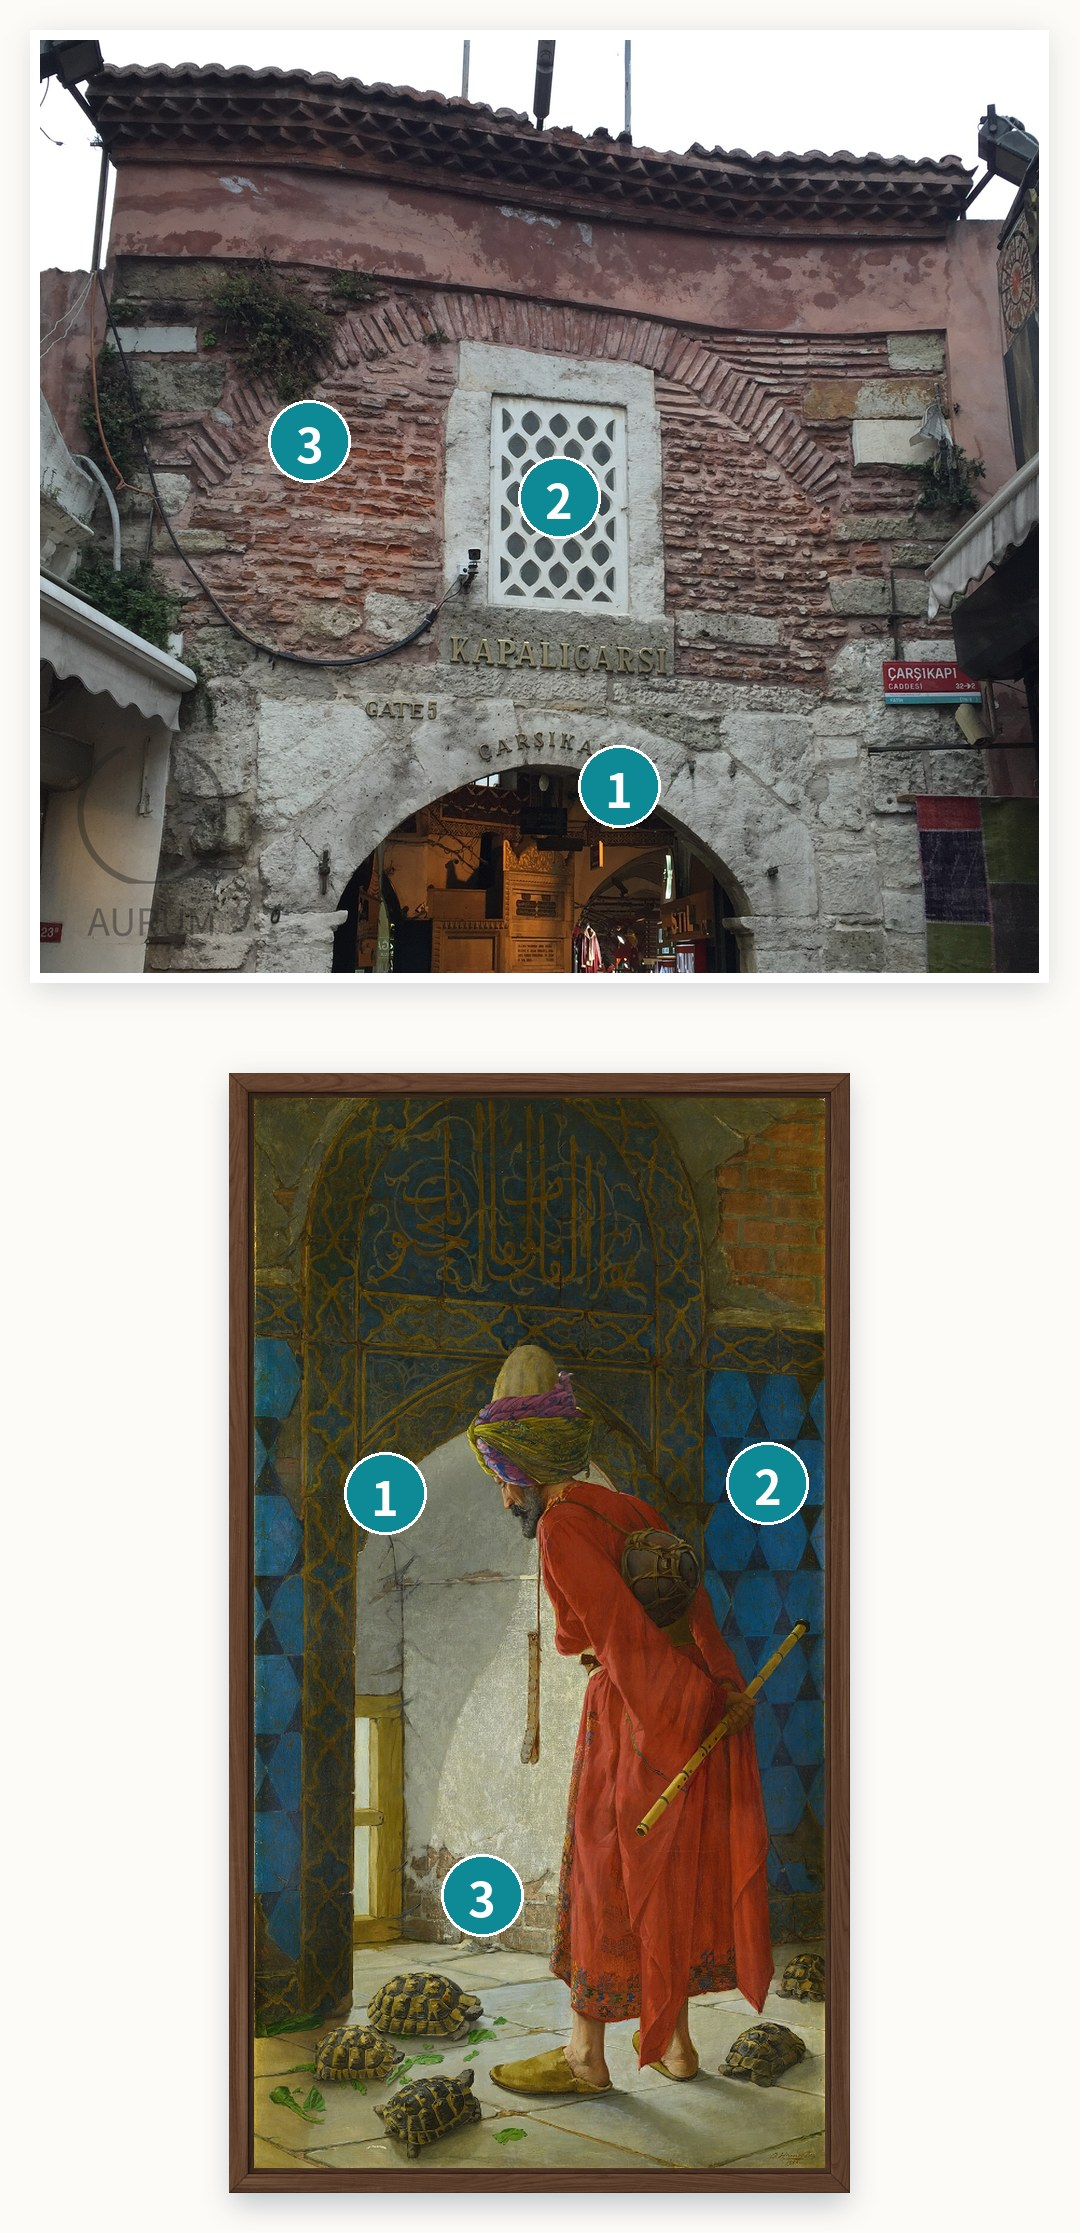
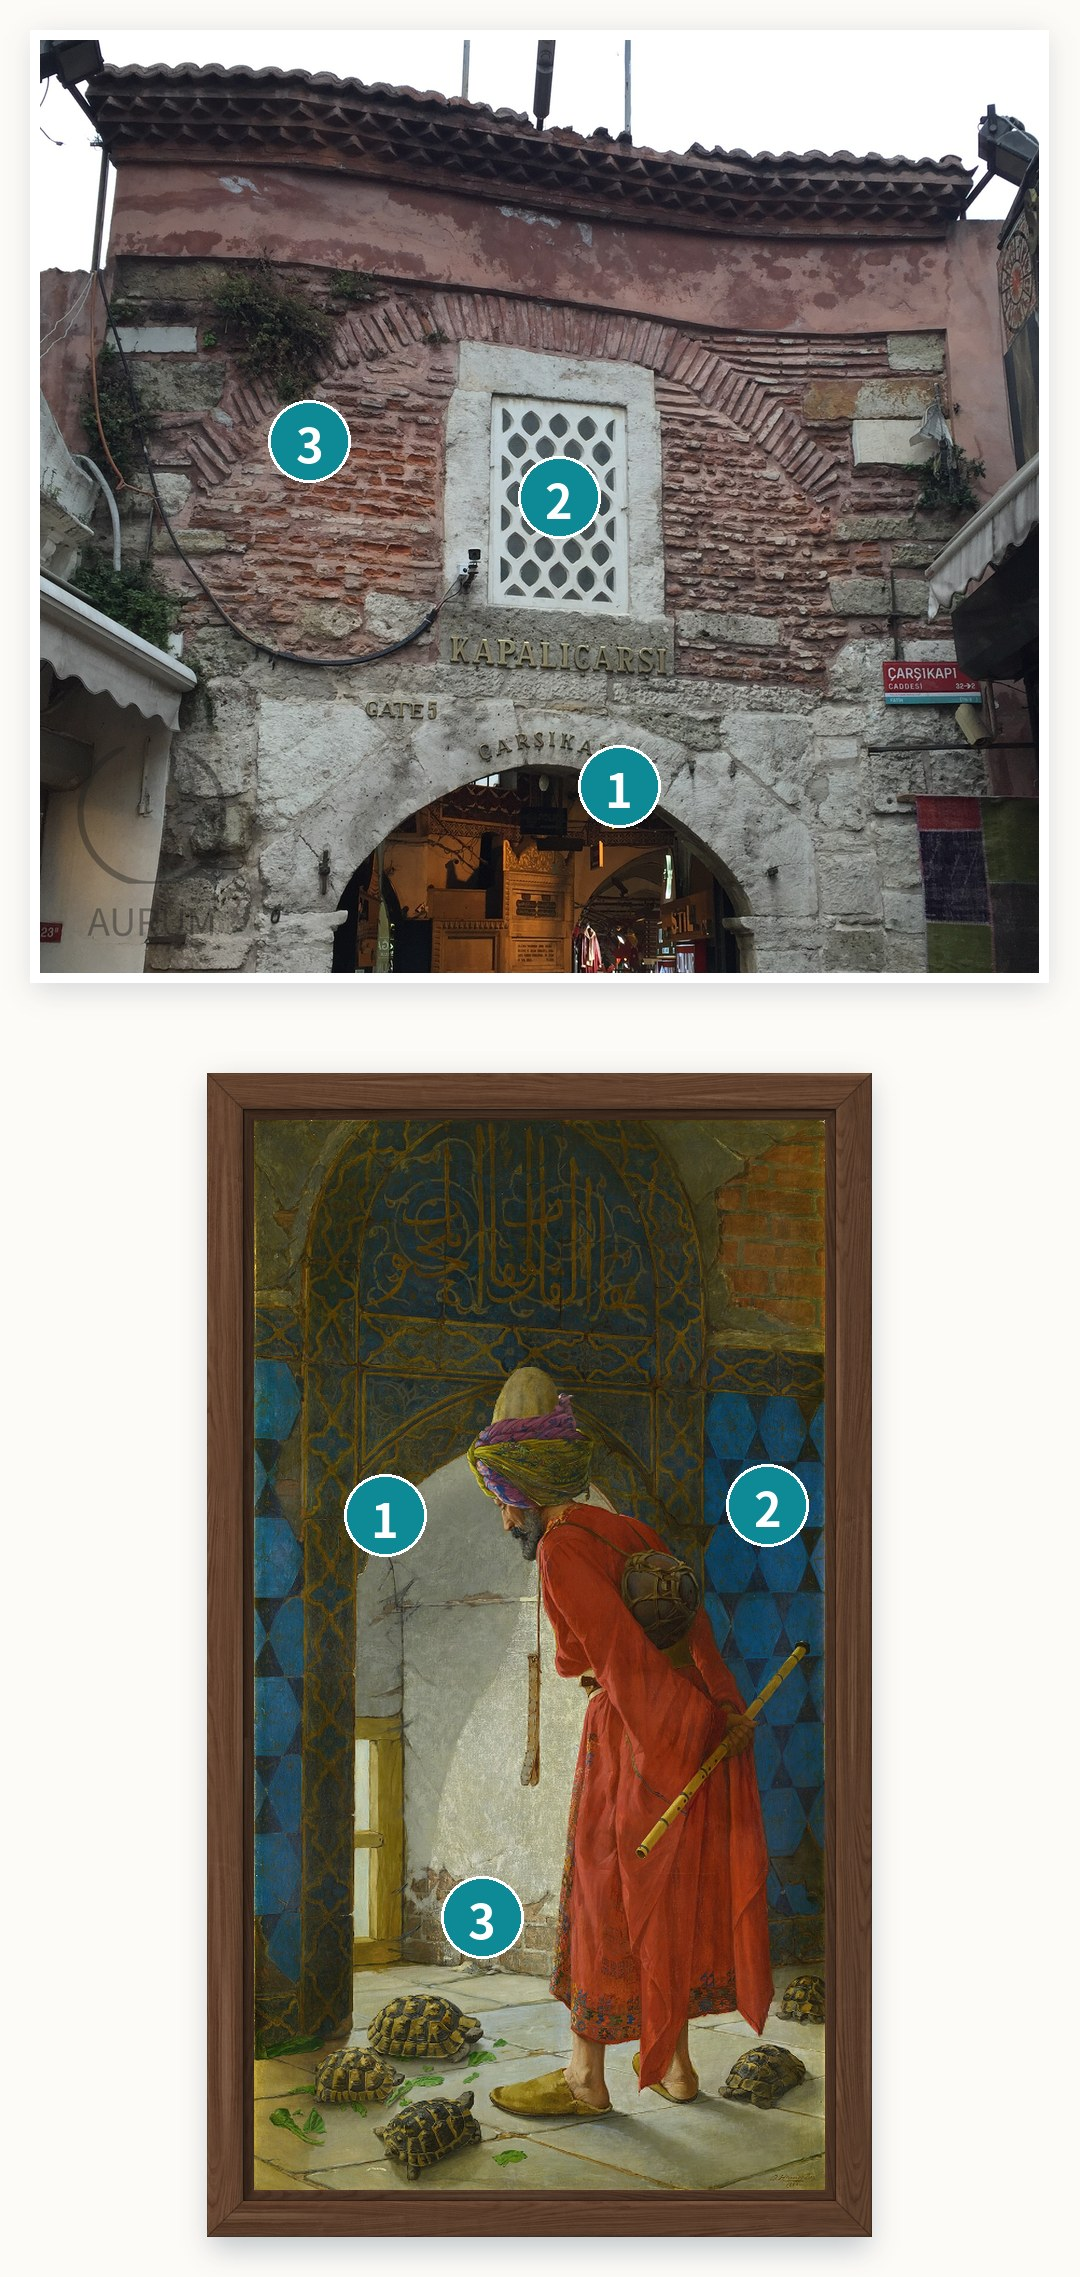
frames v2.1: /11 overlays — wood rim 4% of the frame's long side (Osman portrait frame was 5px on PC, grain unreadable)
Claude-Session: https://claude.ai/code/session_01F9LRgiTeBmkJ7htWjS4QcD

Changed region(s): [[0.0306, 0.0309, 0.9778, 0.9888], [0.6111, 0.5562, 0.6417, 0.5871], [0.0611, 0.0309, 0.0917, 0.0618]]

diff --git a/blog/frames_v2/배정표.md b/blog/frames_v2/배정표.md
@@ -31,7 +31,7 @@
 | 에스더 말랑구 | (작품 미게재, 버튼 링크) | 없음 | 저작권 생존 작가 — 기존 규칙 유지 |
 | 피터 클라크 | (작품 미게재, 지도만) | 없음 | 저작권 — 기존 규칙 유지 |
 
-- 구현(v2.1: 나무 테 = 액자 바깥 폭 4%로 다시 렌더): 그림 안에 액자가 합성된 이미지 4장 교체(`ov_bowler_pc/mo_fv2.jpg`, `ov_osman_pc/mo_fv2.jpg`). 번호점·구도는 공개본과 동일. 치환 조각 `frag/p11_ko_ov_v2.html`(src와 alt 문구 '뢰달름' → '원목 액자').
+- 구현(v2.1: 나무 테 = 액자 바깥 긴 변의 4%로 다시 렌더 — 세로로 긴 함디 베이 그림은 가로 기준이면 PC에서 5px로 결이 안 보여 긴 변 기준. 이케아 3.8% 실측도 55cm 긴 변 기준): 그림 안에 액자가 합성된 이미지 4장 교체(`ov_bowler_pc/mo_fv2.jpg`, `ov_osman_pc/mo_fv2.jpg`). 번호점·구도는 공개본과 동일. 치환 조각 `frag/p11_ko_ov_v2.html`(src와 alt 문구 '뢰달름' → '원목 액자').
 - 두 작가가 서로 달라 액자가 달라도 규칙 위반 아님. 각 작가 안에서는 PC·모바일 동일.
 
 ## 검정·화이트는 어디에
